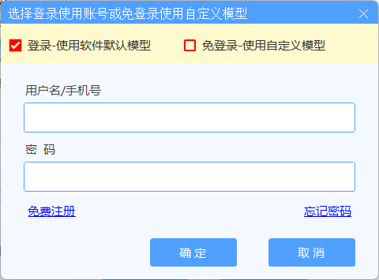
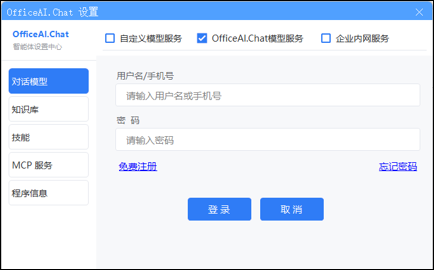
docs: remove 06-model.png image references from README files

diff --git a/README_En.md b/README_En.md
@@ -97,8 +97,6 @@ Check "Custom Model Service" and configure as follows:
 | **API Key** | Copy the API Key from your LLM management console and paste it here |
 | **API Url** | Copy the API Url from your LLM management console and paste it here (ensure it ends with the `/v1` version path) |
 
-![](./Images/06-model.png)
-
 > [!TIP]
 > The software comes pre-configured with standard API endpoints for popular platforms such as DeepSeek, Zhipu, and Alibaba Bailian — selecting one will auto-fill the address. For intranet use, you can run Ollama for fully offline operation with the address format: `http://[server-IP]:11434/v1`
 
